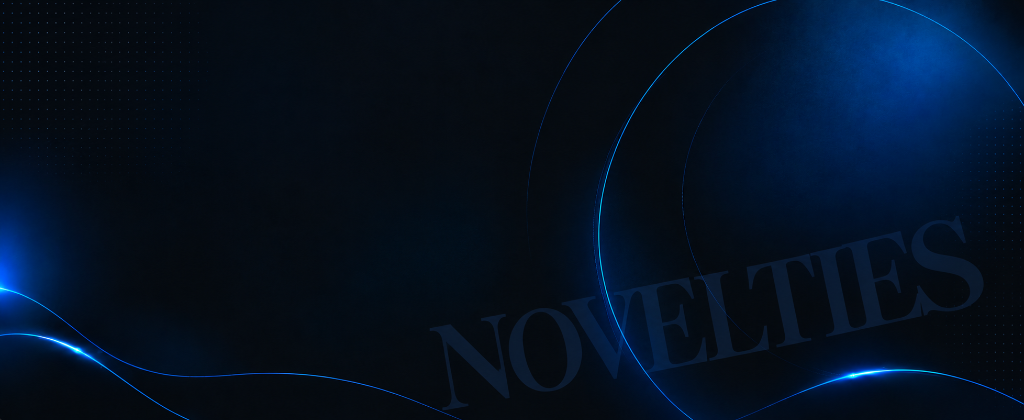
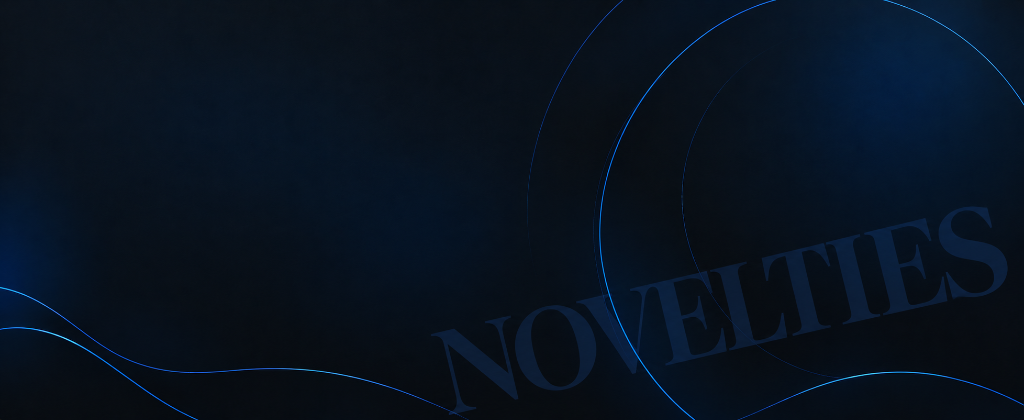
Update Novelties background image without over-zooming

diff --git a/frontend/src/components/Novelties.jsx b/frontend/src/components/Novelties.jsx
@@ -115,12 +115,12 @@ const Novelties = () => {
 
       <main>
         {/* ================= SECTION 1: HERO ================= */}
-        <section className="relative overflow-hidden pt-36 pb-24 md:pt-48 md:pb-36 min-h-[90vh] flex items-center bg-[#041222]">
-          {/* Background image uploaded by user */}
+        <section className="relative overflow-hidden pt-32 pb-20 md:pt-40 md:pb-28 flex items-center bg-[#041222]">
+          {/* Background image uploaded by user (unzoomed positioning) */}
           <img
             src="/novelties-bg.png"
             alt="Novelties background"
-            className="absolute inset-0 h-full w-full object-cover object-center pointer-events-none select-none z-0"
+            className="absolute inset-0 h-full w-full object-cover object-right pointer-events-none select-none z-0"
           />
 
           {/* Vertical scroll text on right edge */}
